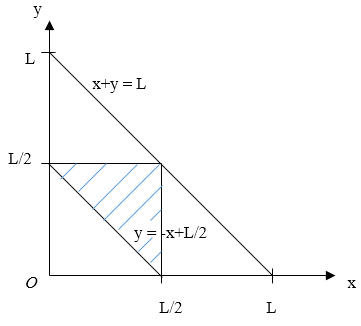
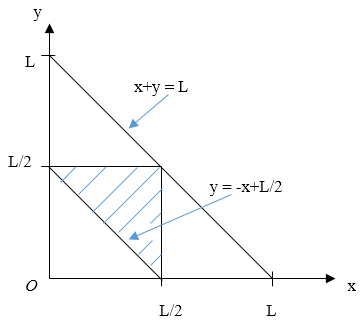
Site updated: 2018-04-16 22:26:47

diff --git a/make-up-a-triangle/index.html b/make-up-a-triangle/index.html
@@ -88,7 +88,7 @@
 <meta property="og:description" content="大前提 三角形任意两边之和大于第三边，即可构成一个三角形。">
 <meta property="og:locale" content="zh-Hans">
 <meta property="og:image" content="http://davidtsing.com/make-up-a-triangle/make-up-a-triangle.png">
-<meta property="og:updated_time" content="2018-04-16T13:58:35.951Z">
+<meta property="og:updated_time" content="2018-04-16T14:26:19.974Z">
 <meta name="twitter:card" content="summary">
 <meta name="twitter:title" content="一个线段上任意取两点，能组成三角形的概率？">
 <meta name="twitter:description" content="大前提 三角形任意两边之和大于第三边，即可构成一个三角形。">
@@ -356,7 +356,8 @@
       
         <p>大前提 <strong>三角形任意两边之和大于第三边</strong>，即可构成一个三角形。</p>
 <a id="more"></a>
-<p>假设三角形三遍分别为$x$,$y$,$z$，线段的长度为$L$。立即推，<br>$$x+y+z = L$$<br>由，三角形任意两边之和大于第三边可知，<br>$x+y &gt; z = L-x-y$，可以化为$y &gt; -x + \frac{L}{2}$<br>$x+z = x+L-x-y &gt; y$，可以化为$y &lt; \frac{L}{2}$<br>$y+z = y+L-x-y &gt; x$，可以化为$x &lt; \frac{L}{2}$</p>
+<p>假设三角形三边分别为$x$,$y$,$z$，线段的长度为$L$。立即推，$x+y+z = L$，同时有不等式$x+y &lt; L$，故坐标系中$[x,y]$所构成的总面积并不为$L^2$。而是，<br>$X &gt; 0$，$y &gt; 0$以及$x+y &lt; L$所围成的三角形面积。</p>
+<p>由，三角形任意两边之和大于第三边可知，<br>$x+y &gt; z = L-x-y$，可以化为$y &gt; -x + \frac{L}{2}$<br>$x+z = x+L-x-y &gt; y$，可以化为$y &lt; \frac{L}{2}$<br>$y+z = y+L-x-y &gt; x$，可以化为$x &lt; \frac{L}{2}$</p>
 <p>数无形时少直觉，摆出图形，<br><img src="/make-up-a-triangle/make-up-a-triangle.png" title="make-up-a-triangle.png"></p>
 <p>根据上图进行概率计算，很显然，阴影部分概率为$\frac{\frac{1}{8}}{\frac{1}{2}} = \frac{1}{4}$</p>
 

diff --git a/css/main.css b/css/main.css
@@ -1822,7 +1822,7 @@ pre .javascript .function {
   width: 4px;
   height: 4px;
   border-radius: 50%;
-  background: #ffc74a;
+  background: #116152;
 }
 .links-of-blogroll {
   font-size: 13px;
